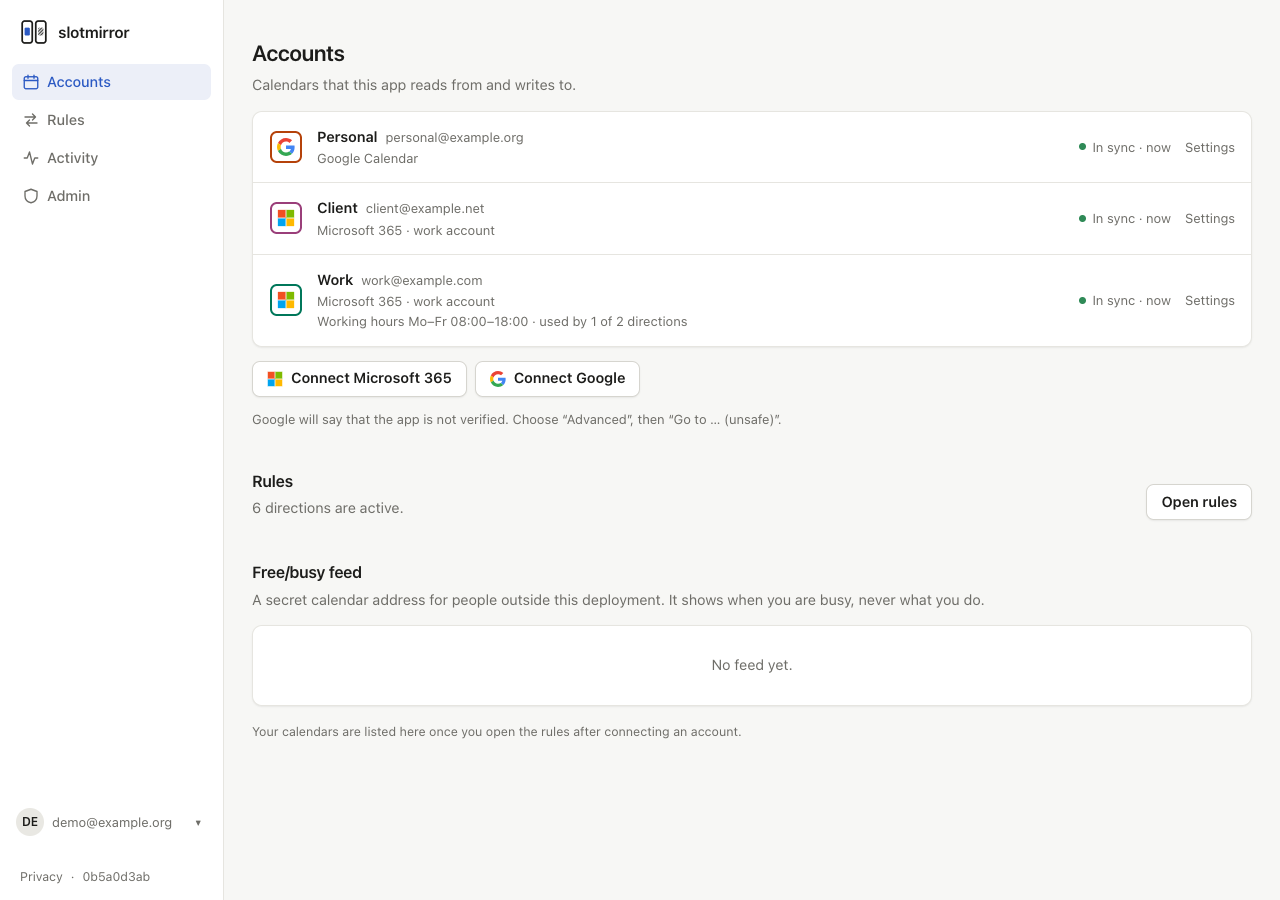
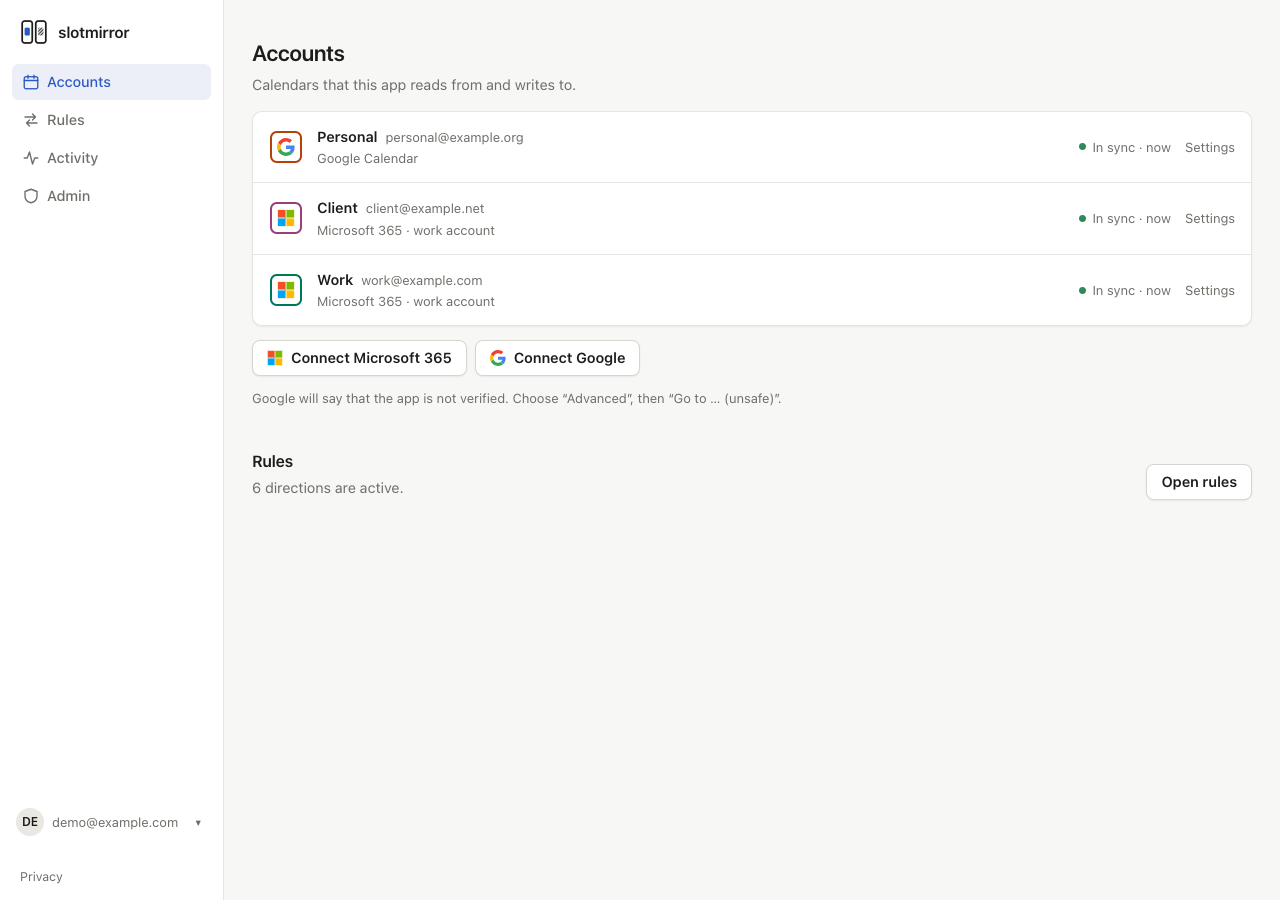
fix(ui): keep account names whole in the rules overview (#67)
The overview broke column headers inside words, for example in 'workshop'.
A name now stays on one line and ends in an ellipsis. The columns share the width.
The accounts screenshot showed the removed feed section and is retaken.
The docs name the page Rules, and no longer point to a section that does not exist.

diff --git a/public/style.css b/public/style.css
@@ -2620,14 +2620,43 @@ details.swatch > summary::-webkit-details-marker {
   display: none;
 }
 
-/* Long names stop after two lines and stay complete in the tooltip. */
+/* A name stays on one line and ends in an ellipsis; the tooltip has the complete name. It never
+   breaks inside a word. */
 .matrix .account-label {
-  display: -webkit-box;
-  max-width: 56px;
+  display: block;
+  min-width: 0;
+  max-width: 64px;
   overflow: hidden;
-  overflow-wrap: anywhere;
-  -webkit-box-orient: vertical;
-  -webkit-line-clamp: 2;
+  text-overflow: ellipsis;
+  white-space: nowrap;
+}
+
+/* Fixed columns share the width of the overview, so a long name cannot push the table wider. */
+.matrix:not(.compact) {
+  table-layout: fixed;
+}
+
+.matrix:not(.compact) th:first-child {
+  width: 26%;
+}
+
+.matrix:not(.compact) th.col {
+  padding-right: 0;
+  padding-left: 0;
+}
+
+.matrix:not(.compact) .account-name {
+  display: flex;
+  max-width: 100%;
+}
+
+.matrix:not(.compact) th.col .account-name {
+  flex-direction: column;
+  gap: 4px;
+}
+
+.matrix:not(.compact) .account-label {
+  max-width: 100%;
 }
 
 .matrix.compact .account-label {

diff --git a/README.md b/README.md
@@ -18,7 +18,7 @@
 </p>
 
 <p align="center">
-  <img src="docs/images/demo.gif" width="760" alt="The sync editor: events from Work go to Personal with every detail and in a chosen Google colour, then the change is saved">
+  <img src="docs/images/demo.gif" width="760" alt="The Rules page: events from Work go to Personal with every detail and in a chosen Google colour, then the change is saved">
 </p>
 
 Keep several calendars in sync, so that nobody books you twice. slotmirror copies your events
@@ -34,7 +34,7 @@ operator holds the tokens. The deployment then shows who runs it before you conn
 > **Status: early.** The author uses it every day for three calendars. The version is below 1.0,
 > so settings and the database can still change between releases.
 
-![The calendar editor: one card per calendar, and an overview of all directions](docs/images/editor.png)
+![The Rules page: one card per calendar, and an overview of all directions](docs/images/editor.png)
 
 ## What it does
 
@@ -249,7 +249,7 @@ marks the account and stops its work until the user connects it again:
 
 - The accounts page shows a notice at the top. It names the account's address and provider and
   has a **Reconnect** button. The button starts the provider's sign-in with that address
-  preselected. The account's row shows the same state, and the sync page shows the notice too.
+  preselected. The account's row shows the same state, and the Rules page shows the notice too.
 - The admin page lists which users have accounts that need reconnecting, without the addresses.
 - The activity log records "Token refresh failed", with the provider's error code.
 - The account asks the provider nothing more. Rules into its calendars pause, and rules that read

diff --git a/website/src/content/docs/docs/settings.md b/website/src/content/docs/docs/settings.md
@@ -1,6 +1,6 @@
 ---
 title: Settings reference
-description: All variables and secrets of a slotmirror deployment, and the sync settings in the editor.
+description: All variables and secrets of a slotmirror deployment, and the sync settings on the Rules page.
 ---
 
 One deployment serves one person or one team. Each user signs in, connects their own calendars
@@ -123,7 +123,7 @@ down or its trigger is gone, no alert arrives. Use an outside uptime check for t
 
 ![Sync settings for all calendars](../../../../../docs/images/settings.png)
 
-Each user sets these in the editor, under **For all calendars**. They apply to every direction.
+Each user sets these on the **Rules** page, under **For all calendars**. They apply to every direction.
 
 | Setting                               | Effect                                                                                   |
 | ------------------------------------- | ---------------------------------------------------------------------------------------- |
@@ -139,7 +139,7 @@ Events marked private in the source never carry more than "Busy".
 
 ## Copy only some categories
 
-A direction can copy only part of its source. Open a source in the editor, and open **Copy only some
+A direction can copy only part of its source. Open a source on the **Rules** page, and open **Copy only some
 categories** in the row of the target. The list applies to that direction only. The exclusions under
 **For all calendars** stay as they are.
 

diff --git a/website/src/content/docs/docs/updating.md b/website/src/content/docs/docs/updating.md
@@ -105,7 +105,7 @@ the dashboard. The file value replaces the dashboard value on every deploy.
 
 ## All-day events are mirrored by default
 
-New rules now mirror all-day events, unless the events are marked as free. Rules from the editor
+New rules now mirror all-day events, unless the events are marked as free. Rules created on the Rules page
 keep their behavior, because each rule stores `skipAllDay` in `rules.options`. The **Skip all-day
 events** switch stays on for a user with a rule that skips these events, and that user's new rules
 skip them too. A save changes the rules only if the user changes this switch. Then every rule of
@@ -115,7 +115,7 @@ If such a user never saved the settings and removes their last rule, the switch 
 on again before you add a rule, or the new rule mirrors all-day events.
 
 A rule without `skipAllDay` in `rules.options` starts to mirror all-day events after the update. The
-editor never writes such a rule. It can come from your own SQL, because `options` defaults to `{}`.
+The Rules page never writes such a rule. It can come from your own SQL, because `options` defaults to `{}`.
 To keep the old behavior, add `"skipAllDay": true` to the row before you update.
 
 All-day blocks in Outlook now lie in the time zone of the mailbox, if Microsoft Graph names that

diff --git a/website/src/content/docs/docs/quickstart.md b/website/src/content/docs/docs/quickstart.md
@@ -117,7 +117,7 @@ the other provider later, repeat steps 5 and 6 for it.
 
 ## 8. Watch the first block
 
-1. Under **Where your events go**, put your two calendars in the group **Block each other**, and
+1. On the **Rules** page, put your two calendars in the group **Block each other**, and
    choose **Save**. See below.
 2. In one calendar, create a test event for tomorrow.
 3. Watch the other calendar. With `PUBLIC_URL`, the block appears when the notification arrives. Without it, it
@@ -170,7 +170,7 @@ version later, see [Updating your deployment](../updating/).
 ![Connected accounts](../../../../../docs/images/accounts.png)
 
 1. Connect each account under **Accounts**.
-2. Open **Where your events go**. Put your calendars in the group **Block each other**: each then
+2. Open **Rules**. Put your calendars in the group **Block each other**: each then
    sees the others only as "Busy", marked private.
 3. For more detail in one direction, expand the card of the source account and choose **Not**,
    **As busy**, **With title** or **Everything** per target. **Looks like this there** shows an

diff --git a/website/src/content/docs/guides/sync-multiple-microsoft-365-tenants.md b/website/src/content/docs/guides/sync-multiple-microsoft-365-tenants.md
@@ -17,10 +17,10 @@ and often does not exist. This guide syncs the calendars yourself, as busy block
 2. Deploy slotmirror with the [Quickstart](../../docs/quickstart/) and set `PUBLIC_URL`.
 3. Connect one account per tenant under **Accounts**. If a tenant blocks user consent, its admin
    must grant consent to the app once.
-4. In **Where your events go**, add the calendars to the group **Block each other**.
+4. On the **Rules** page, add the calendars to the group **Block each other**.
 5. Choose **Save**.
 
-## Names in the editor
+## Names on the Rules page
 
 slotmirror derives a short name from each address. You can rename an account, for example to the
 name of the company, so that the overview reads "from Company A to Company B".

diff --git a/website/src/content/docs/guides/sync-outlook-and-google-calendar.md b/website/src/content/docs/guides/sync-outlook-and-google-calendar.md
@@ -22,7 +22,7 @@ other.
    [Google OAuth client](../../docs/google-setup/).
 3. Set `PUBLIC_URL`, so that the providers notify your deployment of changes.
 4. Sign in and connect both accounts under **Accounts**.
-5. In **Where your events go**, use **Quick start**: both calendars then block each other as busy.
+5. On the **Rules** page, use **Quick start**: both calendars then block each other as busy.
 6. Expand the card of the Outlook account. For the Google target, choose **With title** or
    **Everything**. **Looks like this there** shows the result.
 7. Choose **Save**.

diff --git a/website/src/content/docs/guides/show-private-calendar-as-busy-at-work.md b/website/src/content/docs/guides/show-private-calendar-as-busy-at-work.md
@@ -13,7 +13,7 @@ private appointment, and nothing else.
 
 1. Deploy slotmirror with the [Quickstart](../../docs/quickstart/) and connect your work and your
    private account.
-2. In **Where your events go**, add both calendars to the group **Block each other**.
+2. On the **Rules** page, add both calendars to the group **Block each other**.
 3. Expand the card of the private account. Keep **As busy** for the work calendar.
 4. Under **For all calendars**, keep **Mark copies as private** on. Colleagues then see
    "Private". You still see everything.

diff --git a/website/src/content/docs/guides/block-team-or-club-calendar.md b/website/src/content/docs/guides/block-team-or-club-calendar.md
@@ -15,7 +15,7 @@ schedule in your other calendars.
    Calendar.
 2. Deploy slotmirror with the [Quickstart](../../docs/quickstart/) and connect that account and
    your work account.
-3. In **Where your events go**, expand the card of the account with the schedule.
+3. On the **Rules** page, expand the card of the account with the schedule.
 4. Under **Calendars from …**, turn on the schedule next to the main calendar.
 5. Keep **As busy** for the work calendar, or choose **With title** if colleagues may see "Home
    match".

diff --git a/website/src/content/docs/docs/introduction.md b/website/src/content/docs/docs/introduction.md
@@ -17,7 +17,7 @@ operator holds the tokens. The deployment then shows who runs it before you conn
 The version is below 1.0. Settings and the database can still change between releases.
 :::
 
-![The calendar editor: one card per calendar, and an overview of all directions](../../../../../docs/images/editor.png)
+![The Rules page: one card per calendar, and an overview of all directions](../../../../../docs/images/editor.png)
 
 ## What it does
 

diff --git a/website/src/content/docs/docs/organisations.md b/website/src/content/docs/docs/organisations.md
@@ -35,7 +35,7 @@ Values: `busy`, `title`, `title_location`.
 - The caps apply at every run.
 - A lower cap also rewrites the blocks that a rule already wrote.
 - An invalid value counts as `busy`.
-- In the editor, a capped choice shows the note "This deployment's policy allows at most …".
+- On the Rules page, a capped choice shows the note "This deployment's policy allows at most …".
 
 ## Offboarding
 
